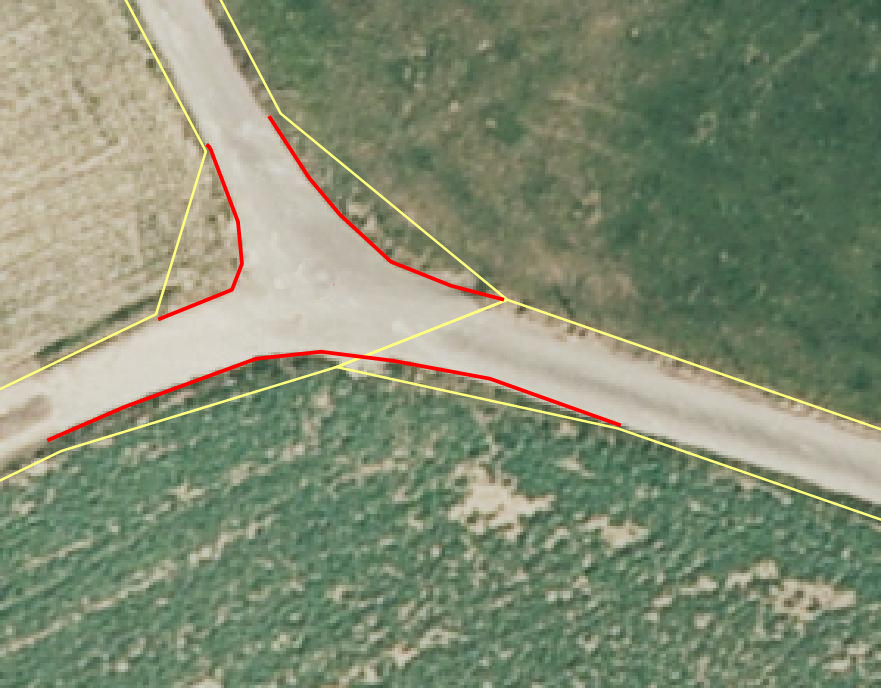
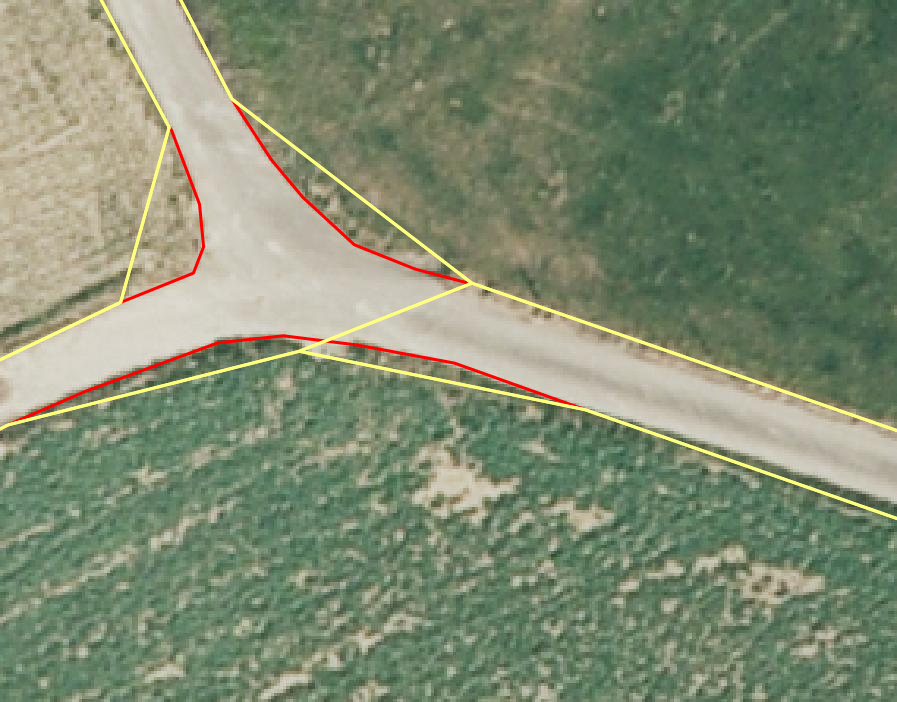
Anpassungen Dominik Str.übrige_humusierte/übrige_befestigte

diff --git a/source/strasse.rst b/source/strasse.rst
@@ -47,8 +47,8 @@ Beispiele:
 |   :width: 550px                                                     |   :width: 550px                                                       |
 |   :target: _static/Strasse_Lagedifferenz_Kreuzung.png               |   :target: _static/Strasse_Lagedifferenz_Kreuzung_korr.png            |
 |                                                                     |                                                                       |
-|   ``BB.Strasse_Weg`` ist zu korrigieren, weil die Lagedifferenz     |   ``BB.Strasse_Weg`` ist zu korrigieren gemäss den rot dargestellten  |
-|   grösser als die Toleranz (TS3: 1.5m) ist.                         |   Linien.                                                             |
+|   ``BB.Strasse_Weg`` ist zu korrigieren, weil die Lagedifferenz     |   ``BB.Strasse_Weg`` ist im Bereich der Toleranzüberschreitung zu     |
+|   grösser als die Toleranz (TS3: 1.5m) ist.                         |   korrigieren gemäss den rot dargestellten Linien.                    |
 +---------------------------------------------------------------------+-----------------------------------------------------------------------+
 |.. _Strasse_Lagedifferenz_TS2:                                       |.. _Strasse_Lagedifferenz_TS2_korr:                                    |
 |                                                                     |                                                                       |
@@ -176,7 +176,7 @@ Beispiele:
 |   :width: 550px                                                                      |    :width: 550px                                                                      |
 |   :target: _static/Strasse_Hofdurchfahrt.png                                         |    :target: _static/Strasse_ueber_mehrere_parz.png                                    |                              
 |                                                                                      |                                                                                       |
-|   ``BB.Strasse_Weg`` draf bei Hofdurchfahrten nicht unterbrochen sein.               |    ``BB.Strasse_Weg`` bei Erschliessung mehrerer Liegenschaften wird nicht korrigiert.|                                                                               
+|   ``BB.Strasse_Weg`` darf bei Hofdurchfahrten nicht unterbrochen sein.               |    ``BB.Strasse_Weg`` bei Erschliessung mehrerer Liegenschaften wird nicht korrigiert.|                                                                               
 |                                                                                      |                                                                                       |
 +--------------------------------------------------------------------------------------+---------------------------------------------------------------------------------------+   
 |.. _Strasse_Strassenveraengung:                                                       | .. _Strasse_pave:                                                                     |
@@ -236,7 +236,7 @@ Benötigte Layer in QGIS:
 Darstellung nicht nach Richtlinie    
 ^^^^^^^^^^^^^^^^^^^^^^^^^^^^^^^^^                                        
 
-???? Bei Strasseneinfahrten geht das ``BB.Trottoir`` der ``BB.Strasse_Weg`` vor, wenn das Trottoir baulich nicht unterbrochen ist.  ????? oder wir nicht korrigiert? 
+???? Bei Strasseneinfahrten geht das ``BB.Trottoir`` der ``BB.Strasse_Weg`` vor, wenn sich dieses baulich oder niveaumässig von der Strasse abhebt.  ????? oder wir nicht korrigiert? 
 
 
 BB.Verkehrsinsel                                                                
@@ -269,9 +269,11 @@ Benötigte Layer in QGIS:
 .. code-block:: none                                                                                                                                                                                                                                                                                                       
                                                                                                                                         
   Strasse/ Lagekontrolle                                                                                                                                                         
-                                                                                                                                                                                                                                                                                        
-Objekt umattribieren
-^^^^^^^^^^^^^^^^^^^^ 
+
+.. _ref_ver:  
+
+Objekt umattribuieren 
+^^^^^^^^^^^^^^^^^^^^^ 
 Verkehrsinseln sind komplett von ``BB.Strasse_Weg`` umgeben. Strassenverengungen, die humusiert sind, werden als ``BB.uebrige_humusierte`` attribuiert.
 Bei humusierten Trennstreifen z.B. bei Autobahnen oder zwischen Strassen und z.B. Radwegen ist die Bodenbedeckung ``BB.uebrige_humusierte`` und **nicht** ``BB.Verkehrsinsel``.
 
@@ -315,7 +317,75 @@ Beispiele:
    :target: _static/Strasse_Verkehrsinsel_Fussgaengerstreifen.png                           
                                                                                     
    ``BB.Verkehrsinsel`` ist bei Fussgängerstreifen **nicht** zu unterteilen
-                                                                                       
+ 
+
+BB.übrige_befestigte
+---------------------
+
+Lagedifferenz
+^^^^^^^^^^^^^
+Im Rahmen der PNF/Homogenisierung werden keine Änderungen vorgenommen.         
+   
+
+
+Objekt fehlt/löschen/umattribuieren      
+^^^^^^^^^^^^^^^^^^^^^^^^^^^^^^^^^^^^^     
+Ist auf dem aktuellen Orthofoto eine übriger befestigte Fläche im Strassenbereich zu erkennen, ist diese im Rahmen der PNF/Homogenisierung **nicht** neu zu erfassen.
+Falls in der AV eine ``BB.übrige_befestigte `` Fläche im Strassenbereich vorhanden ist, welche auf dem aktuellen Orthofoto nicht mehr zu erkennen sind, sind dieses Objekt zu löschen oder evtl. einer anderen BB.Art zu zuweisen.  
+Parkplätze die das Flächenkriterium von 100m2 nicht erfüllen gehören nicht zu  ``BB.übrige_befestigte Fläche``, sodern sind zu löschen.
+
+Benötigte Layer im QGIS:    
+
+.. code-block:: none
+
+   Seltene Objekte / Lagekontrolle  
+   
+
+.. _strasse_uebrige_befestigte_loeschen:                                              
+                                                                                    
+.. figure:: _static/strasse_uebrige_befestigte_loeschen.png                         
+   :width: 550px                                                                    
+   :target: _static/strasse_uebrige_befestigte_loeschen.png                         
+                                                                                    
+   ``BB.übrige_befestigte`` ist zu löschen.
+   
+
+Darstellung nicht nach Richtlinie  
+^^^^^^^^^^^^^^^^^^^^^^^^^^^^^^^^^     
+Im Rahmen der PNF/Homogenisierung werden keine Änderungen vorgenommen.         
+   
+   
+   
+BB.übrige_humusierte   
+---------------------
+
+Lagedifferenz
+^^^^^^^^^^^^^
+Wird eine Lagedifferenz zwischen der AV und dem aktuellen Orthofoto grösser als die Toleranz (siehe :ref:`ref_Tz`) festgestellt, so ist das Objekt in der AV zu korrigieren. Liegt die Differenz innerhalb der Toleranz wird das Objekt nicht angepasst.
+
+Benötigte Layer in QGIS:
+
+.. code-block:: none 
+
+   Strasse / Lagekontrolle         
+
+
+Objekt fehlt/löschen/umattribuieren      
+^^^^^^^^^^^^^^^^^^^^^^^^^^^^^^^^^^^^^     
+Ist auf dem aktuellen Orthofoto eine übriger humusierte Fläche (z.B. humusierte Trennstreifen zwischen Strassen und Radwegen) im Strassenbereich zu erkennen, ist diese im Rahmen der PNF/Homogenisierung neu zu erfassen.
+Falls in der AV eine ``BB.übrige_humusierte`` Fläche im Strassenbereich vorhanden ist, welche auf dem aktuellen Orthofoto nicht mehr zu erkennen sind, sind dieses Objekt zu löschen oder evtl. einer anderen BB.Art zu zuweisen.  
+ (siehe Verkehrsinsel :ref:`ref_ver`)
+
+Benötigte Layer im QGIS:    
+
+.. code-block:: none
+
+   Seltene Objekte / Lagekontrolle  
+   
+Darstellung nicht nach Richtlinie  
+^^^^^^^^^^^^^^^^^^^^^^^^^^^^^^^^^     
+Im Rahmen der PNF/Homogenisierung werden keine Änderungen vorgenommen.         
+
 
 EO.Lärmschutzwand               
 -----------------

diff --git a/source/allgemein.rst b/source/allgemein.rst
@@ -96,7 +96,7 @@ Vorgehen beim Projekt *Periodische Nachführung und Homogenisierung*
 .. _Diagramm_Vorgehen:                                   
                                                          
 .. figure:: _static/Diagramm_Vorgehen.png               
-   :width: 350px                                         
+   :width: 400px                                         
    :target: _static/Diagramm_Vorgehen.png               
 
 In einem ersten Schritt werden die Objekte, die nachzuführen resp. die zu homogenisieren sind, detektiert. Eine QGIS-Fachschale unterstützt die Detektierung. Dazu ist das AV-Operat im Interlis-Format in die QGIS-Fachschale zu importieren (siehe https://docs.google.com/document/d/1cA-7Qe-clG3pW9366pJQoRACNlejM9B9hvu0ljdrKQw/edit?pli=1#heading=h.f2eudjvbbct5 ).
@@ -124,7 +124,7 @@ Perimeterrand       Kontrolle der Objekt am Perimeterrand mit der Nachbargemeind
    
 Mängelpunkte/-linien erfassen
 ^^^^^^^^^^^^^^^^^^^^^^^^^^^^^     
-Werden Objekte gefunden, bei denen die AV angepasst werden muss, sind diese mit einem Mängelpunkt oder -linie zu kennzeichnen. Mängellinien werden nur bei Lagedifferenzen oder bei fehlenden Objekten erfasst.    
+Werden Objekte gefunden, bei denen die AV angepasst werden muss, sind diese mit einem Mängelpunkt oder -linie zu kennzeichnen. Mängellinien werden nur bei Linien- und Flächenobjekten, welche eine Lagedifferenz aufweisen oder fehlen, erfasst.    
                              
 
 | Zu den Mängelpunkt/-linien werden folgende Attribute erfasst:
@@ -158,7 +158,7 @@ Werden Objekte gefunden, bei denen die AV angepasst werden muss, sind diese mit 
 +------------------------------+---------------------------------------------------------------------------------------------------------------------------------------------------------------+
 
 .. note::
-   Falls mehrere der vordefinierten Attributwerte unter dem Attribut "Fehler" zum Mängelpunkt resp. Mängellinie passt, ist nur ein Mängelpunkt resp. eine Mängellinie zu erfassen. Eventuell ist bei solchen Fällen der Attributwert "weitere" zu verwenden.
+   Falls mehrere der vordefinierten Attributwerte unter dem Attribut "Fehler" zum Mängelpunkt resp. Mängellinie passt, ist nur ein Mängelpunkt resp. eine Mängellinie zu erfassen. Eventuell ist bei solchen Fällen der Attributwert "weitere" zu verwenden. ???? oder doch z.B. 2 Mängel absetzen
 
    
 .. _ref_Metherei:
@@ -213,7 +213,7 @@ Kostenverteilung              Beschreibung
 
 
 Die Kosten der periodischen Nachführung und Homogenisierung werden pauschal vom zuständigen Nachführungsgeometer resp. der zuständigen Nachführungsgeometerin in zwei Etappen (Detektierung, Bereinigung) offeriert.
-                
+Der Anteil der Feldarbeiten in Prozent am Gesamtaufwand bei der PNF und Harmonisierung ist tief zu halten. Als Richtwert gilt ein Anteil von jeweils maximal 15%.                
                                                                                                                                                                                           
 Dokumentation
 --------------

diff --git a/source/seltene_Objekte.rst b/source/seltene_Objekte.rst
@@ -328,7 +328,7 @@ Beispiele:
 |   :width: 550px                                                                     |   :width: 550px                                                                    |
 |   :target: _static/seltene_Objekte_Mast_Leitung_Richtlinien.png                     |   :target: _static/seltene_Objekte_Mast_Leitung_Richtlinien2.png                   |
 |                                                                                     |                                                                                    |
-|   ``EO.Mast_Leitung`` ist als Linie darzustellen und nicht als Symbol.              |   ``EO.Hochspannungsfreileitung`` ist nur mit eine Linie darzustellen.             |
+|   ``EO.Mast_Leitung`` ist als Linie darzustellen und nicht als Symbol.              |   ``EO.Hochspannungsfreileitung`` ist nur mit einer Linie darzustellen.            |
 +-------------------------------------------------------------------------------------+------------------------------------------------------------------------------------+     
 
 EO.einzelner_Fels
@@ -385,7 +385,7 @@ Benötigte Layer im QGIS:
 
 Objekt fehlt/löschen/umattribuieren   
 ^^^^^^^^^^^^^^^^^^^^^^^^^^^^^^^^^^^ 
-Ist auf dem aktuellen Orthofoto eine Objekt zu erkennen, das nicht in der AV ist, ist dieses im Rahmen der PNF/Homogenisierung **nicht** neu zu erfassen. Falls in der AV ein Objekt vorhanden ist, welches auf dem aktuellen Orthofoto nicht mehr zu erkennen ist oder den Aufnahmekriterien gemäss *Handbuch der amtlichen Vermessung Kanton Solothurn* nicht genügt, ist dieses Objekt zu löschen oder evtl. einer anderen EO.Art zu zuweisen.
+Ist auf dem aktuellen Orthofoto ein Objekt zu erkennen, das nicht in der AV ist, ist dieses im Rahmen der PNF/Homogenisierung **nicht** neu zu erfassen. Falls in der AV ein Objekt vorhanden ist, welches auf dem aktuellen Orthofoto nicht mehr zu erkennen ist oder den Aufnahmekriterien gemäss *Handbuch der amtlichen Vermessung Kanton Solothurn* nicht genügt, ist dieses Objekt zu löschen oder evtl. einer anderen EO.Art zu zuweisen.
 
 Benötigte Layer im QGIS:       
                                                                                                                                                                   

diff --git a/source/bestockte_flaeche.rst b/source/bestockte_flaeche.rst
@@ -273,7 +273,7 @@ Benötigende Layer im QGIS:
 Objekt fehlt/löschen
 ^^^^^^^^^^^^^^^^^^^^^
 Ist auf dem aktuellen Orthofoto ein Bestockung zu erkennen, die das Flächenkriterium gemäss TVAV Art. 13 (???????????) erfüllt, ist diese bestockte Fläche im Rahmen der PNF/Homogenisierung neu in der AV als ``BB.Hecke`` zu erfassen. 
-Ist in der AV eine ``BB.Hecke`` erfasst, die auf dem aktuellen Orthofoto nicht mehr zu erkennen ist oder das Flächenkriterium ??????? gemäss TVAV Art. 13 nicht nicht erfüllt, ist dieses Objekt zu löschen.
+Ist in der AV eine ``BB.Hecke`` erfasst, die auf dem aktuellen Orthofoto nicht mehr zu erkennen ist oder das Flächenkriterium ??????? oder eher 500m2??? gemäss TVAV Art. 13 nicht nicht erfüllt, ist dieses Objekt zu löschen.
 
 .. code-block:: none
 
